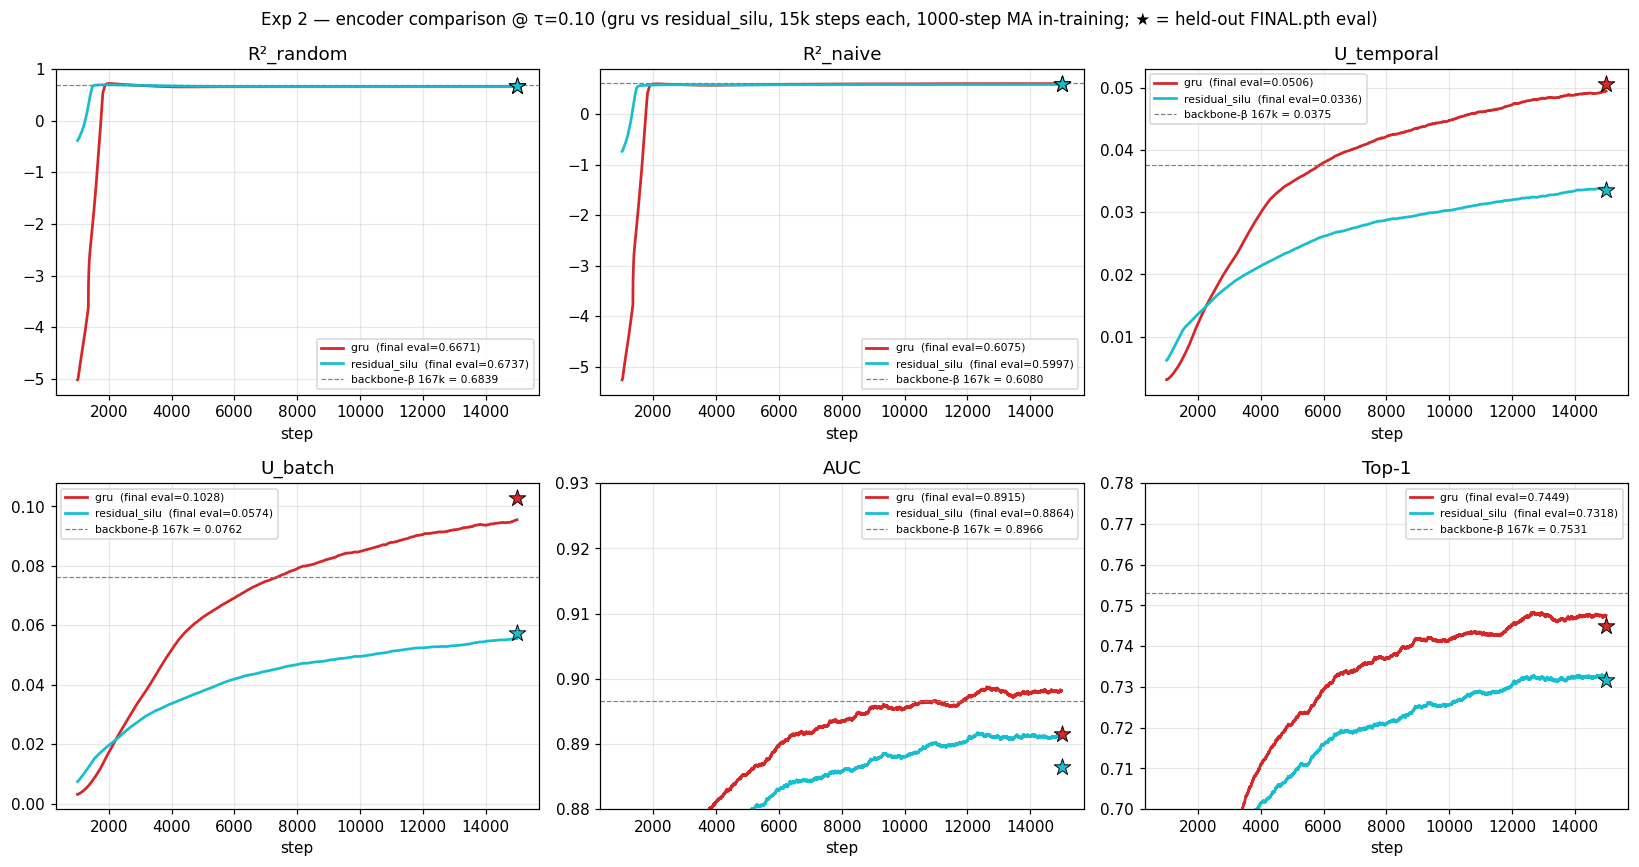
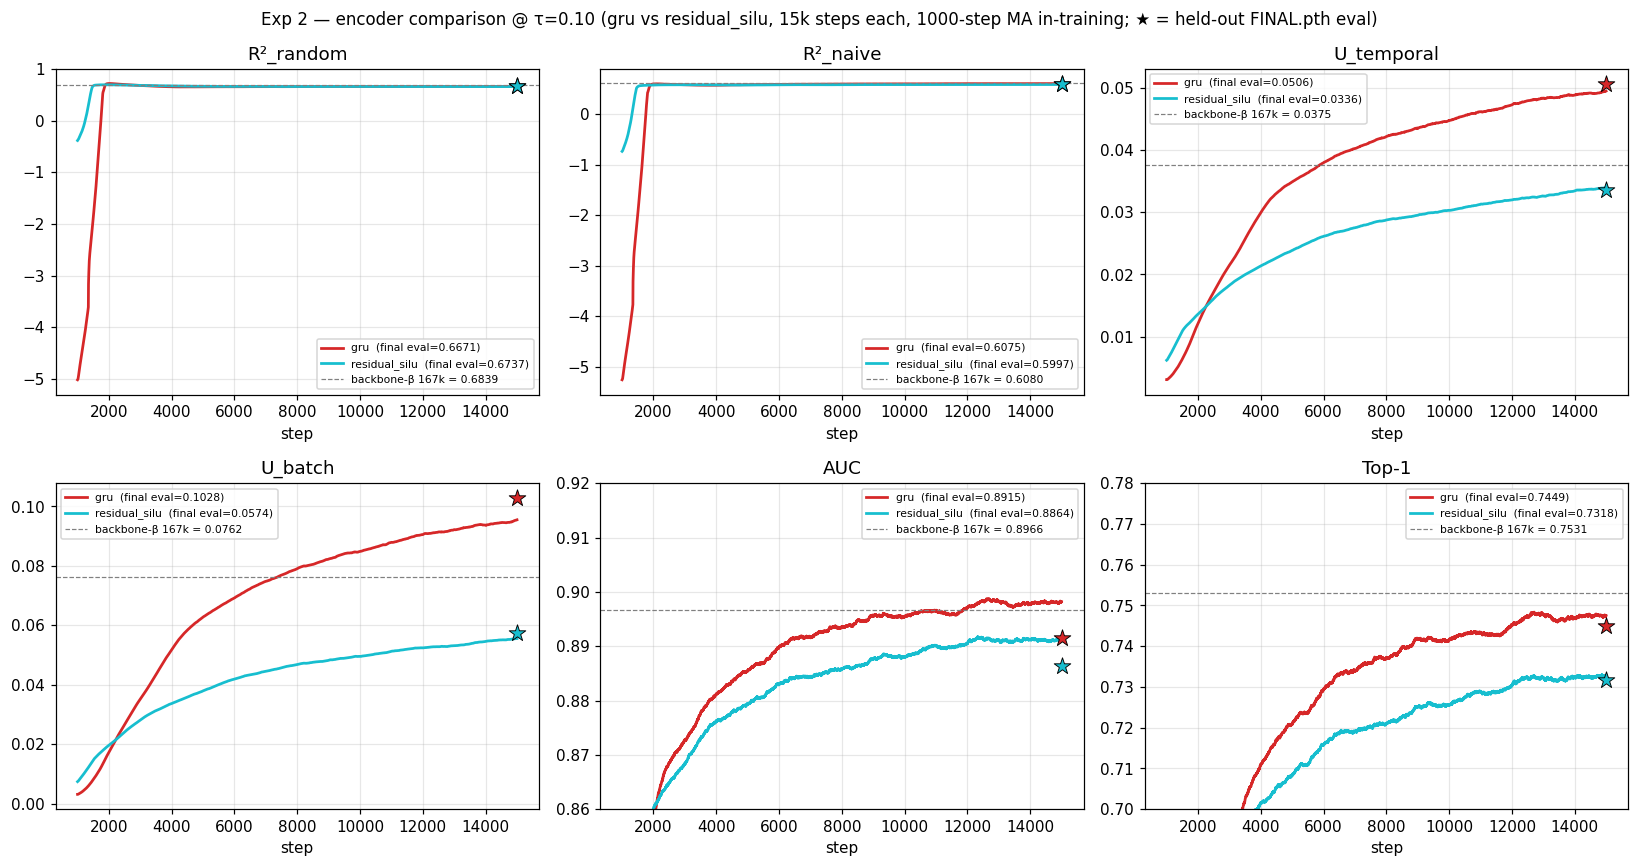
docs(tau-encoder): tighten plot zoom + embed in RESULTS.md (#189)
Tighten AUC zoom 0.88-0.93 → 0.86-0.92 to give the residual_silu
curve more headroom while keeping the gru-vs-residual_silu spread
visible. Top-1 zoom unchanged at 0.70-0.78. Re-render
plots/encoder_comparison.png from existing CSVs.

Rewrite RESULTS.md as fact-only / self-contained: 1-paragraph
headline up top, plot embedded inline, sections setup → eval table
→ trajectory observation → conclusion. All numbers cross-checked
against tau_sweep_metrics_v2.csv and the per-step losses CSVs.

diff --git a/experiments/2026-05-09_exp_tau_encoder/scripts/plot_encoder_comparison.py b/experiments/2026-05-09_exp_tau_encoder/scripts/plot_encoder_comparison.py
@@ -91,7 +91,7 @@ def main():
         ("r2_naive",  "R²_naive",   None,        BETA["r2_naive"]),
         ("u_temporal","U_temporal", None,        BETA["u_temporal"]),
         ("u_batch",   "U_batch",    None,        BETA["u_batch"]),
-        ("auc",       "AUC",        (0.88, 0.93), BETA["auc"]),
+        ("auc",       "AUC",        (0.86, 0.92), BETA["auc"]),
         ("top1",      "Top-1",      (0.70, 0.78), BETA["top1"]),
     ]
 

diff --git a/experiments/2026-05-09_exp_tau_encoder/RESULTS.md b/experiments/2026-05-09_exp_tau_encoder/RESULTS.md
@@ -1,5 +1,12 @@
 # Exp 2 — encoder swap (gru vs residual_silu) @ τ=0.10
 
+gru wins 5 of 6 held-out metrics over residual_silu at τ=0.10 over 15k
+steps; AUC gap is small (~0.005, 0.8915 vs 0.8864), Top-1 gap is
+clearer (~0.013, 0.7449 vs 0.7318). residual_silu wins R²_random by
+~0.007. Picked winner: **gru**.
+
+![Encoder comparison: gru vs residual_silu](plots/encoder_comparison.png)
+
 ## Setup
 
 Single-arm comparison: residual_silu encoder vs the gru encoder used in
@@ -32,65 +39,46 @@ Results CSV:
 
 | backbone                       | encoder        | R²_rand | R²_naive | U_t    | U_b    | AUC    | Top1   |
 |--------------------------------|----------------|---------|----------|--------|--------|--------|--------|
-| tau_sweep_0_10                 | gru            | **0.6671** | **0.6075** | **0.0506** | **0.1028** | **0.8915** | **0.7449** |
-| exp2_residual_silu_tau_0_10    | residual_silu  | 0.6737  | 0.5997   | 0.0336 | 0.0574 | 0.8864 | 0.7318 |
+| tau_sweep_0_10                 | gru            | 0.6671  | **0.6075** | **0.0506** | **0.1028** | **0.8915** | **0.7449** |
+| exp2_residual_silu_tau_0_10    | residual_silu  | **0.6737** | 0.5997   | 0.0336 | 0.0574 | 0.8864 | 0.7318 |
 
-Bold = winner per metric.
+Bold = winner per metric. gru wins 5/6; residual_silu wins R²_random.
 
 Reference (backbone-beta_167k on the same held-out batch):
 R²_rand 0.6839, R²_naive 0.6080, U_t 0.0375, U_b 0.0762,
 AUC 0.8966, Top1 0.7531.
 
-## Last in-training step values (from per-step CSVs)
+## Trajectory observation
+
+In-training 1000-step MA over the full 15k:
 
 | backbone                       | last step | loss   | AUC_train | Top1_train | U_b_train |
 |--------------------------------|-----------|--------|-----------|------------|-----------|
 | tau_sweep_0_10                 | 15000     | 7.0414 | 0.9199    | 0.7765     | 0.0939    |
 | exp2_residual_silu_tau_0_10    | 15000     | 7.4514 | 0.8895    | 0.7183     | 0.0597    |
 
-The residual_silu run lands at a higher contrastive loss (7.45 vs 7.04)
-and lower in-training AUC/Top1 across the entire trajectory; the
-held-out gap is consistent with the in-training gap.
+residual_silu lands at a higher contrastive loss (7.45 vs 7.04) and
+lower in-training AUC/Top1 throughout. On 1000-step MA, residual_silu
+starts faster (early-window AUC ~0.67 vs gru ~0.54), but gru overtakes
+within the first few thousand steps and stays ahead through step 15k.
+The gap is not closing at step 15k.
 
-## Plots
+The plot above shows the full 15k-step trajectory (1000-step MA) for
+all six metrics; AUC and Top-1 panels are zoomed to (0.86, 0.92) and
+(0.70, 0.78) respectively to make the late-trajectory arm-to-arm
+spread legible. Stars at step 15000 mark the held-out FINAL.pth eval
+values; the dashed grey line is the backbone-β 167k reference.
 
-- [`plots/encoder_comparison.png`](plots/encoder_comparison.png) — 6-panel
-  trajectory comparison (1000-step MA), gru vs residual_silu over the
-  full 15k steps. AUC zoom 0.88–0.93; Top-1 zoom 0.70–0.78. Star
-  markers at step 15000 show the held-out FINAL.pth eval values.
+## Conclusion
 
-## Picked winner: gru
-
-The gru encoder beats residual_silu on **5 of 6 held-out metrics**:
-- AUC (0.8915 vs 0.8864), Top1 (0.7449 vs 0.7318) — gru wins by
-  ~0.005 AUC and ~0.013 Top1.
-- U_temporal (0.0506 vs 0.0336) and U_batch (0.1028 vs 0.0574) — gru
-  uses substantially more representation dimensions on this held-out
-  batch.
-- R²_naive (0.6075 vs 0.5997) — narrow gru win.
-
-residual_silu wins only R²_random (0.6737 vs 0.6671), which measures
-forecast usefulness vs a random latent baseline; combined with the
-worse R²_naive, this suggests residual_silu's forecasts are slightly
-more "absolutely" predictive but less informative beyond the persistence
-baseline.
-
-The training trajectories (15k steps each) confirm the held-out finding.
-On 1000-step MA, residual_silu starts faster (AUC ~0.67 by step 1000 vs
-gru ~0.54), but gru catches up by step ~2.1k (AUC) and ~2.5k (Top1) and
-stays ahead from step ~5k onward (mean gru − residual_silu = +0.0070
-AUC, +0.0150 Top1). The gap does not appear to be closing at step 15k.
-A longer run is unlikely to flip the order.
-
-**Recommendation: keep gru as the default encoder for the next
-backbone.** No further encoder ablations planned this round.
+gru wins the held-out eval on AUC, Top-1, R²_naive, U_temporal, and
+U_batch; residual_silu wins only R²_random. The training trajectories
+are consistent with the held-out gap. **Picked winner: gru** as the
+default encoder for the next backbone.
 
 ## What this report does not cover
 
 - Other encoder types (mlp, mlp_wide, conv) — only one alternative was
   tested in this experiment.
 - Encoder × τ interactions — residual_silu was tested only at τ=0.10.
-  If the picked τ from Exp 1 RESULTS_v2 (τ=0.20) interacts unfavourably
-  with gru, residual_silu @ τ=0.20 might still be relevant; not
-  measured.
 - Proxy MASE — same blocker as Exp 1.
